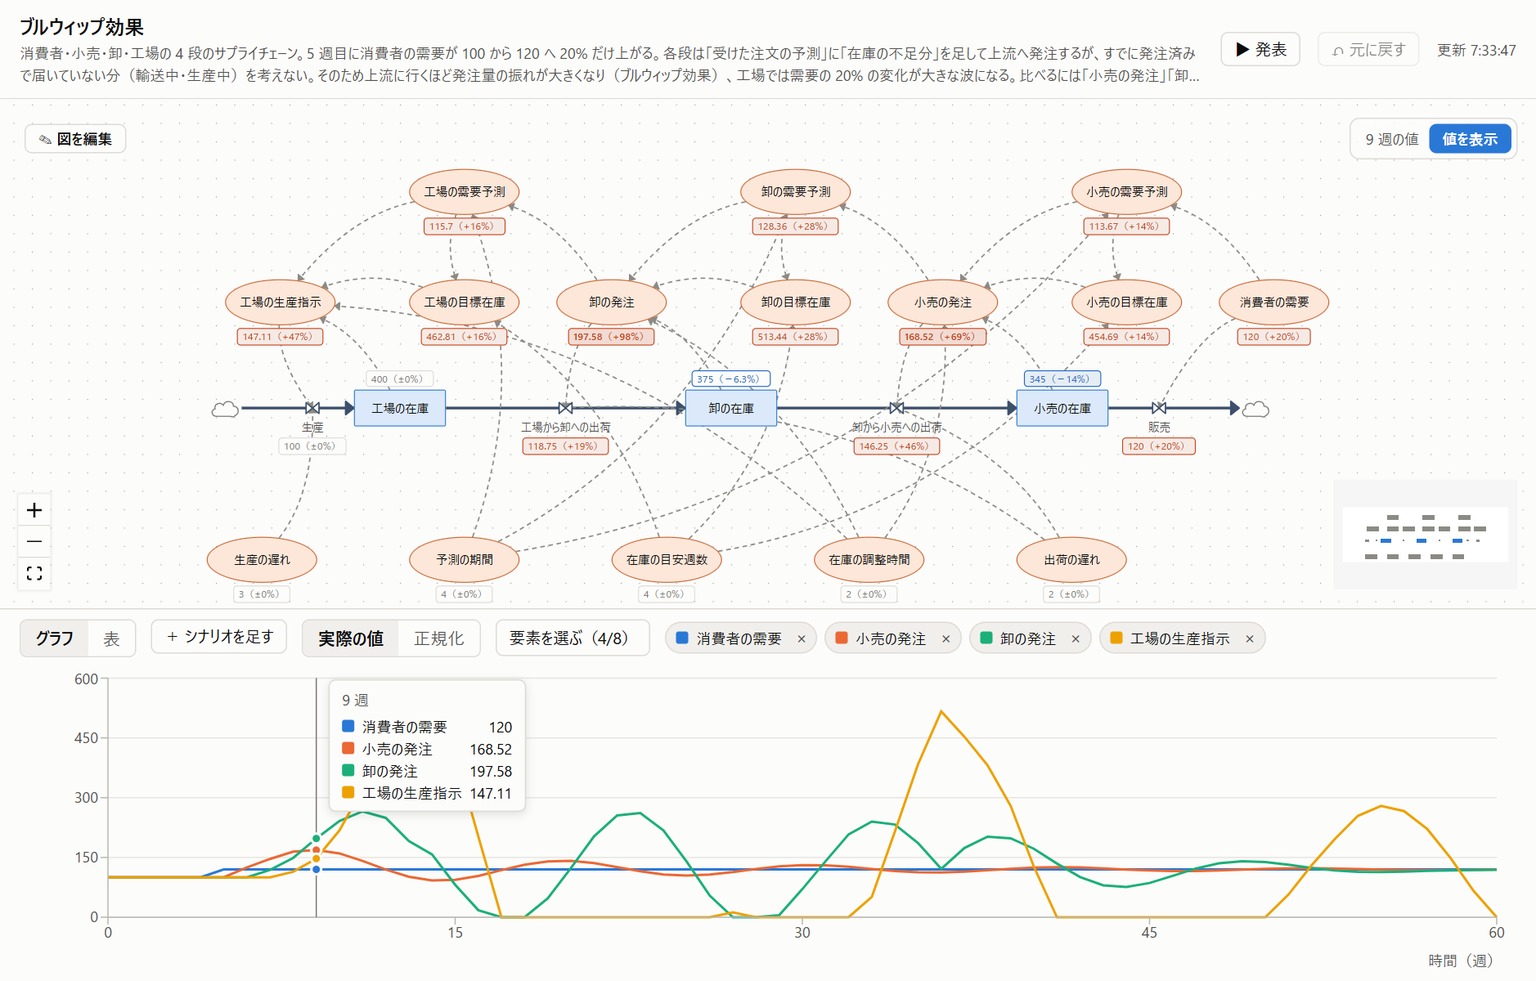
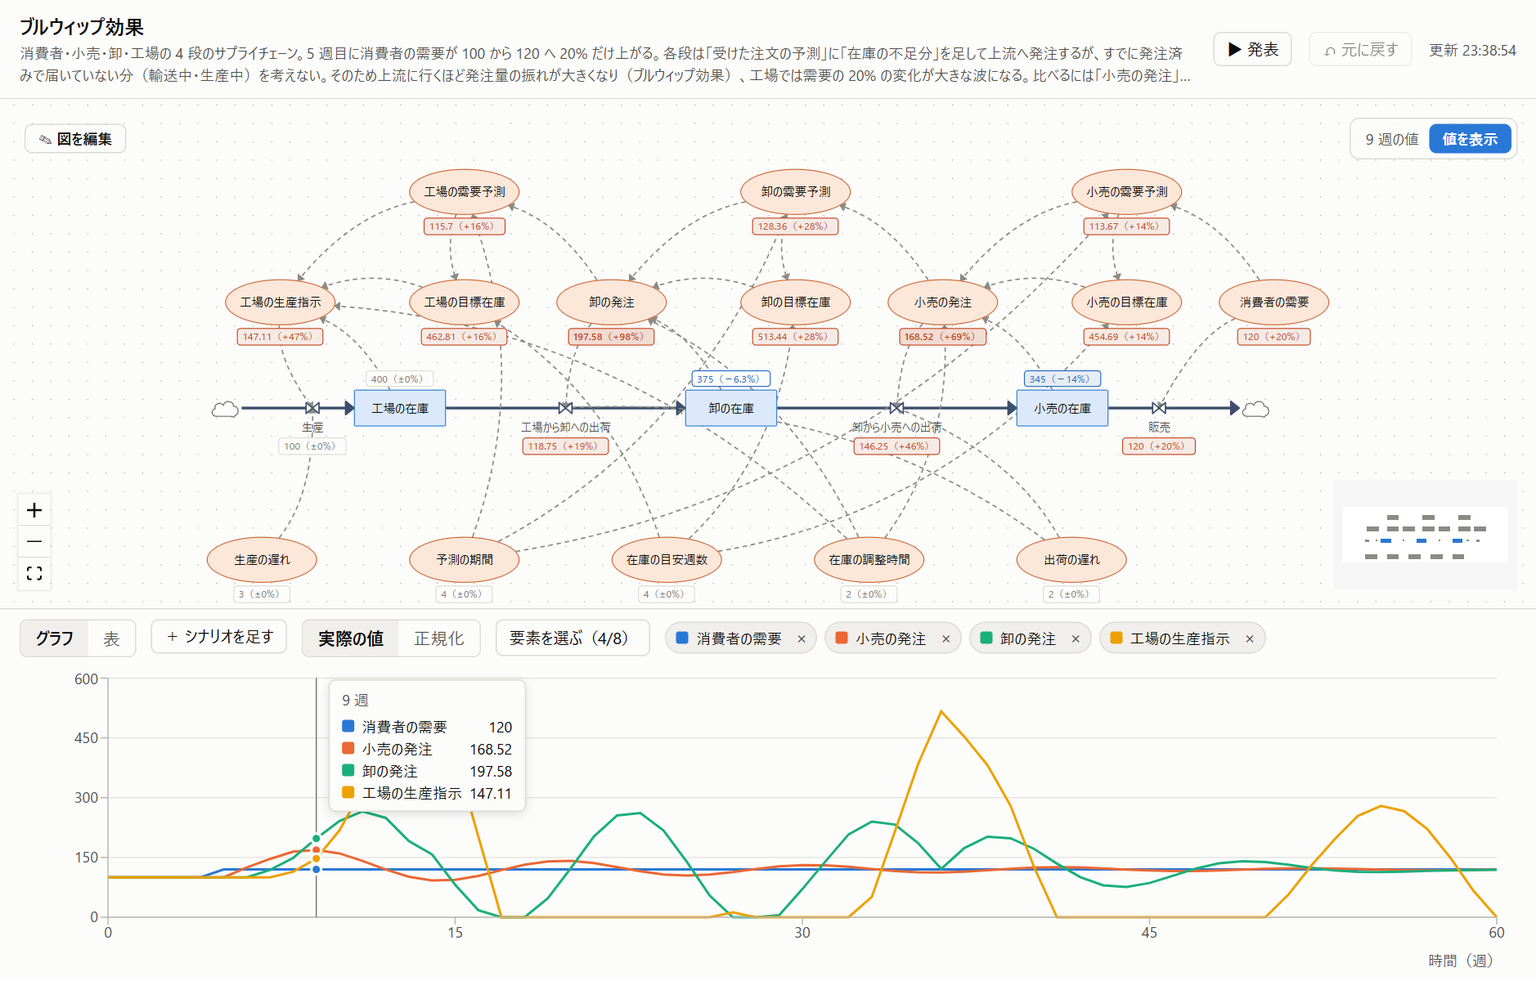
公開の前の手直し：スクリーンショットを新しい名前で撮り直し、文書から旧リポジトリの番号を外す (#3)
- docs/images/viewer/ のスクリーンショットを撮り直した（見出しが「SD Modeler ビューア」のままだった）
- BACKLOG・IDEAS・ROADMAP・VISION から、旧リポジトリの Issue・PR の番号を外した（新しいリポジトリでは別の番号を指すため）
- VISION から Insight Maker の内部エンドポイントの名前と、使わなくなった XML 読み込みの細かい説明を消した
- package.json の description を README の 1 行目にそろえた

Changed region(s): [[0.0, 0.0617, 0.7721, 0.0925], [0.8647, 0.0308, 0.9883, 0.0617], [0.7721, 0.0308, 0.8339, 0.0617]]

diff --git a/docs/BACKLOG.md b/docs/BACKLOG.md
@@ -4,48 +4,46 @@
 
 Issue にしないのは、Issue をまとめて片付けるときに一緒に拾われないようにするため。新しい機能の案は [IDEAS.md](IDEAS.md) に書く。
 
-各項目の「出どころ」は、指摘が出たときの PR。詳しい経緯は PR の本文にある。
-
 （書き始めた日：2026-10-16）
 
 ## 要素の編集
 
-- **要素の名前に `[` や `]` などを入れても通る。** サーバーの `renameElement` と `upsert_elements` に、名前の文字の確かめがないため。`[a]b` のような名前にすると、ほかの式から `[名前]` で参照できなくなる。MCP からは前から起きうるが、詳細欄で名前を変えられるようになって起こりやすくなった。サーバー側で断る。出どころ：#34 のレビュー（#34）
+- **要素の名前に `[` や `]` などを入れても通る。** サーバーの `renameElement` と `upsert_elements` に、名前の文字の確かめがないため。`[a]b` のような名前にすると、ほかの式から `[名前]` で参照できなくなる。MCP からは前から起きうるが、詳細欄で名前を変えられるようになって起こりやすくなった。サーバー側で断る。
 
 ## シナリオ
 
-- **ほかのシナリオが 1 つでも実行できないと、`set_scenarios` 全体が失敗して何も保存されない。** 要素を消してシナリオ A が壊れると、関係のないシナリオ B の説明を直すこともできない。保存はして、比較の結果にシナリオごとのエラーを入れる形（`runScenarios` と同じやり方）のほうが扱いやすい。出どころ：#21
-- **実行できなかったシナリオがあると、ほかのシナリオの色がずれる。** 色を、実行できたシナリオの中での位置で決めているため。モデルの中の並び順で決めれば変わらない。出どころ：#21
-- **名前のないシナリオの仮の名前（scenario N）が、前のシナリオを消すとずれる。** 配列の位置で作っているため。名前のないシナリオは取り込んだモデルでしか起きない。出どころ：#21
-- **シナリオの上限（8）が 3 か所に分かれている。** `src/core/slides.ts` の `MAX_SLIDE_SCENARIOS`、`src/viewer/server.ts` の `MAX_SCENARIOS`、web の `MAX_SERIES`。中核から 1 つの定数で出せば、ずれる心配がなくなる。「元のモデル」の名前も web 側に写しがある。出どころ：#21、#23
-- **ビューアで要素を消したときの黄色の帯が、中核（`removeElements`）の知らせをそのまま並べている。** `FLOW "Births" の to は "Population" を指していたので空（モデルの外）にしました。` や `シナリオ "…" から "…" の値を消しました。` のように、MCP 向けの書き方（英語の種類名）で、作業者には読みにくい。画面では「Births の行き先をモデルの外にしました」「シナリオ「…」から … の値を消しました」のように言い換えるか、要点だけにする。出どころ：#35
+- **ほかのシナリオが 1 つでも実行できないと、`set_scenarios` 全体が失敗して何も保存されない。** 要素を消してシナリオ A が壊れると、関係のないシナリオ B の説明を直すこともできない。保存はして、比較の結果にシナリオごとのエラーを入れる形（`runScenarios` と同じやり方）のほうが扱いやすい。
+- **実行できなかったシナリオがあると、ほかのシナリオの色がずれる。** 色を、実行できたシナリオの中での位置で決めているため。モデルの中の並び順で決めれば変わらない。
+- **名前のないシナリオの仮の名前（scenario N）が、前のシナリオを消すとずれる。** 配列の位置で作っているため。名前のないシナリオは取り込んだモデルでしか起きない。
+- **シナリオの上限（8）が 3 か所に分かれている。** `src/core/slides.ts` の `MAX_SLIDE_SCENARIOS`、`src/viewer/server.ts` の `MAX_SCENARIOS`、web の `MAX_SERIES`。中核から 1 つの定数で出せば、ずれる心配がなくなる。「元のモデル」の名前も web 側に写しがある。
+- **ビューアで要素を消したときの黄色の帯が、中核（`removeElements`）の知らせをそのまま並べている。** `FLOW "Births" の to は "Population" を指していたので空（モデルの外）にしました。` や `シナリオ "…" から "…" の値を消しました。` のように、MCP 向けの書き方（英語の種類名）で、作業者には読みにくい。画面では「Births の行き先をモデルの外にしました」「シナリオ「…」から … の値を消しました」のように言い換えるか、要点だけにする。
 
 ## 実際のデータ（CSV）
 
-- **日本語版 Excel で「CSV（コンマ区切り）」として保存すると Shift_JIS になり、文字化けする。** 日本語の要素名がどの列とも合わない、という警告だけが出る。文字化けの文字（U+FFFD）を見つけたら「UTF-8 で保存してください」と知らせるか、少なくとも VIEWER.md に書く。出どころ：#22
-- **タブ区切りの CSV で、カンマを含む名前に変えると次から読めなくなる。** 区切りの判定が「1 行目にタブがあり、カンマがなければタブ区切り」のため。タブの数がカンマより多ければタブ区切りとするか、カンマを含む名前は `"…"` で囲む。出どころ：#22
-- **データの時刻に合わせて足した行では、ツールチップのモデルの値が「—」になる。** 線は補った値でその時刻を通っているので、ちょうど比べたい点で値が読めない。補った値を出す。出どころ：#22
-- **正規化表示で、モデルの線が一定だとデータの点がすべて 50% に並ぶ。** 合っているように見えてしまう。データ自身の最小・最大も目盛りに入れるか、その要素の点は正規化表示では描かない。出どころ：#22
-- **期間外の時刻のデータがあると、横軸がそこまで広がる。** モデルの開始より前の実績を入れると、線のない区間ができる。望ましい場合もあるので、どちらにするか決めて VIEWER.md に書く。出どころ：#22
-- **データのある要素が、最初はグラフに出ない。** 自分で選ぶまで点が見えない。説明資料という目的からは、最初から出したほうが親切かもしれない。出どころ：#22
-- **`1,5` を桁区切りとして 15 と読む。** 小数点にカンマを使う地域の書き方を取り違える。日本語の環境では起きにくい。出どころ：#22
+- **日本語版 Excel で「CSV（コンマ区切り）」として保存すると Shift_JIS になり、文字化けする。** 日本語の要素名がどの列とも合わない、という警告だけが出る。文字化けの文字（U+FFFD）を見つけたら「UTF-8 で保存してください」と知らせるか、少なくとも VIEWER.md に書く。
+- **タブ区切りの CSV で、カンマを含む名前に変えると次から読めなくなる。** 区切りの判定が「1 行目にタブがあり、カンマがなければタブ区切り」のため。タブの数がカンマより多ければタブ区切りとするか、カンマを含む名前は `"…"` で囲む。
+- **データの時刻に合わせて足した行では、ツールチップのモデルの値が「—」になる。** 線は補った値でその時刻を通っているので、ちょうど比べたい点で値が読めない。補った値を出す。
+- **正規化表示で、モデルの線が一定だとデータの点がすべて 50% に並ぶ。** 合っているように見えてしまう。データ自身の最小・最大も目盛りに入れるか、その要素の点は正規化表示では描かない。
+- **期間外の時刻のデータがあると、横軸がそこまで広がる。** モデルの開始より前の実績を入れると、線のない区間ができる。望ましい場合もあるので、どちらにするか決めて VIEWER.md に書く。
+- **データのある要素が、最初はグラフに出ない。** 自分で選ぶまで点が見えない。説明資料という目的からは、最初から出したほうが親切かもしれない。
+- **`1,5` を桁区切りとして 15 と読む。** 小数点にカンマを使う地域の書き方を取り違える。日本語の環境では起きにくい。
 
 ## 筋書きと発表モード
 
-- **極性が決まっていない原因スライドがあると、編集のたびに同じ警告が `slides_issues` と「問題」欄に出る。** 自動で足すリンクには極性が付かないので、brooks_law のようなモデルではスライドの枚数分の警告が毎回返る。警告は `set_slides` と `view_slides` のときだけにし、編集のあとは食い違い（errors）だけを返す、などを検討する。出どころ：#24
-- **`set_scenarios` の `replace: true` でシナリオの名前を付け直すと、筋書きは追従しない。** `slides_issues` で知らせるので実害は小さい。出どころ：#23
-- **例の population の B ループは、R より見分けにくい。** Population → Deaths のリンクがフローの線に沿って、細いレンズ形になる。Death Rate と Deaths の位置を少しずらす。出どころ：#24
-- **図の R / B の札は px 指定なので、全画面の発表では見出しに比べて小さく見える。** 出どころ：#24
+- **極性が決まっていない原因スライドがあると、編集のたびに同じ警告が `slides_issues` と「問題」欄に出る。** 自動で足すリンクには極性が付かないので、brooks_law のようなモデルではスライドの枚数分の警告が毎回返る。警告は `set_slides` と `view_slides` のときだけにし、編集のあとは食い違い（errors）だけを返す、などを検討する。
+- **`set_scenarios` の `replace: true` でシナリオの名前を付け直すと、筋書きは追従しない。** `slides_issues` で知らせるので実害は小さい。
+- **例の population の B ループは、R より見分けにくい。** Population → Deaths のリンクがフローの線に沿って、細いレンズ形になる。Death Rate と Deaths の位置を少しずらす。
+- **図の R / B の札は px 指定なので、全画面の発表では見出しに比べて小さく見える。**
 
 ## ループ（find_loops）
 
-- **細長い大きな輪（100 要素を超える）では、見つける前に手数の上限で止まる。** 長さを広げながら探し直すため。実際の SD モデルではまずない形。出どころ：#24
-- **強連結成分を探す処理（Tarjan 法）が再帰。** 数千要素がつながった鎖のようなモデルでは、呼び出しが深くなりすぎて止まるおそれがある。出どころ：#24
+- **細長い大きな輪（100 要素を超える）では、見つける前に手数の上限で止まる。** 長さを広げながら探し直すため。実際の SD モデルではまずない形。
+- **強連結成分を探す処理（Tarjan 法）が再帰。** 数千要素がつながった鎖のようなモデルでは、呼び出しが深くなりすぎて止まるおそれがある。
 
 ## 画像と PDF（ヘッドレスのブラウザ）
 
-- **`view_slides` と `export_slides` は、描き終わりを固定の時間（400ms など）で待つ。** 重いモデルの図では足りないかもしれない。出どころ：#23、#25
-- **`DevToolsActivePort` を一度読むと読み直さない。** 書いている途中で読んだ場合などに、まれに「接続できません」で失敗しうる。`/json/list` が失敗したら読み直す。出どころ：#25
-- **ブラウザを閉じるときの `fetch` と WebSocket に時間の上限がない。** ブラウザが固まると `close()` が終わらない。`AbortSignal.timeout` を付ける。出どころ：#25
-- **ブラウザが見つからないとき、空の `im-browser-*` フォルダが残る。** 一時フォルダを作ってからブラウザを探しているため。順を入れ替える。前からある。出どころ：#25
-- **PDF から文字を取り出すと、「人」が「⼈」のような部首の文字になることがある。** Chrome と Yu Gothic の組み合わせの癖。見た目と印刷は正しい。出どころ：#25
+- **`view_slides` と `export_slides` は、描き終わりを固定の時間（400ms など）で待つ。** 重いモデルの図では足りないかもしれない。
+- **`DevToolsActivePort` を一度読むと読み直さない。** 書いている途中で読んだ場合などに、まれに「接続できません」で失敗しうる。`/json/list` が失敗したら読み直す。
+- **ブラウザを閉じるときの `fetch` と WebSocket に時間の上限がない。** ブラウザが固まると `close()` が終わらない。`AbortSignal.timeout` を付ける。
+- **ブラウザが見つからないとき、空の `im-browser-*` フォルダが残る。** 一時フォルダを作ってからブラウザを探しているため。順を入れ替える。前からある。
+- **PDF から文字を取り出すと、「人」が「⼈」のような部首の文字になることがある。** Chrome と Yu Gothic の組み合わせの癖。見た目と印刷は正しい。

diff --git a/docs/ROADMAP.md b/docs/ROADMAP.md
@@ -108,7 +108,7 @@
 - **元に戻すはサーバーで持つ。** 画面から書き込むたびに、書き込む前の中身を覚えておく（モデルごとに 50 回分、メモリの中だけ）。元に戻すときは、ファイルがその書き込みの直後のままの場合だけ戻す。そのあと AI などが変えていたら、戻さずに知らせる。
 - **書き込みの API は、ほかのサイトから呼べないようにする。** Host ヘッダーの確認に加えて、`Origin` がビューア自身であること、独自のヘッダー（`X-IM-Viewer`）と `Content-Type: application/json` があることを求める。独自のヘッダーがあるとブラウザは事前の確認（CORS のプリフライト）をし、ビューアはそれに応えないので、ほかのサイトからは送れない。
 - **E1 値と式の編集：** 選んだ要素の詳しい情報の欄で、式（流量）、初期値、単位、負にしない、説明を直す。数字だけなら数値、それ以外は式として保存する。コンバーターは表（入力と出力の組）も直せる。状態と遷移は段階 1 と同じく編集しない。
-- **要素の中身と図の形で、編集の入口を分ける。** 要素の中身（式、初期値、単位、説明、名前）は、詳細欄の「編集」→「保存」でいつでも直す。図の形を変える操作（配置のドラッグ、要素を足す・消す、線を引く）は、図の左上の「図を編集」（編集モード）をオンにしたときだけできる（#43 で上の帯から図の窓に移した）。値やシナリオは、編集モードに関係なくいつでも直せる。使わない人には道具を出さず、見ているときにうっかり図を崩さないため。編集モードは開くたびにオフから始め、ブラウザに覚えさせない。発表モードと図だけの表示（`?view=diagram`）には出さない。元に戻す操作と、AI の変更が画面に出ることは、モードに関係なく働く。
+- **要素の中身と図の形で、編集の入口を分ける。** 要素の中身（式、初期値、単位、説明、名前）は、詳細欄の「編集」→「保存」でいつでも直す。図の形を変える操作（配置のドラッグ、要素を足す・消す、線を引く）は、図の左上の「図を編集」（編集モード）をオンにしたときだけできる。値やシナリオは、編集モードに関係なくいつでも直せる。使わない人には道具を出さず、見ているときにうっかり図を崩さないため。編集モードは開くたびにオフから始め、ブラウザに覚えさせない。発表モードと図だけの表示（`?view=diagram`）には出さない。元に戻す操作と、AI の変更が画面に出ることは、モードに関係なく働く。
 - **E2 配置の編集：** 編集モードのときに、図の要素と雲をドラッグで動かし、離したときに位置を保存する。弁は両端の真ん中についてくる。座標のない要素を仮に並べているときに動かすと、表示している配置をまとめて保存する（座標のない要素が残らないように）。
 - **E3 名前の変更と図の形の編集：** 名前の変更は詳細欄の「編集」に足す。要素を足す・消す、線（リンク）を引く操作は、編集モードのときだけ図の上に出す道具の場所に並べる。
 
@@ -118,11 +118,11 @@
 - **E1. 値と式の編集（済み）**
 - **E2. 配置の編集（済み）。** 左や上にはみ出したら全体をずらして保存する
 - **E3. 名前の変更と図の形の編集（済み）。** 次の 5 つに分けて作った
-  - 編集モードの切り替え（#33、済み）。オフでは図の要素を動かせない
-  - 詳細欄の「編集」で名前を変える（#34、済み）。式・シナリオ・実際のデータの列名・筋書きの中の名前も書き換え、元に戻すで戻る。選んでいる要素や線、グラフに出している要素は新しい名前のまま続く
-  - 編集モードで要素を足す・消す（#35、済み）。足すときは種類のボタンを押してから図の置きたい場所を押し、仮の名前で置く。消すときはつながるリンクも消し、ストックにつながるフローは残して端を雲にする
-  - 編集モードで線（リンク）を引く（#36、済み）。要素の縁からドラッグして別の要素の上で離すか、[＋線] を押してから元 → 先の順に押す。線を押して選び、「削除」か Delete キーで消す。同じ向きのリンク、自分自身へのリンクは引かずに知らせる。先の要素の式が使っているリンクとコンバーターの入力元からのリンクは消せず、選んだときに左の欄に理由を出して「削除」を押せなくする。フローの端を雲からストックにつなぎ替える操作は、別に作った（下）
-  - 編集モードでフローの端をつなぎ替える（#40、済み）。フローの端の近くのつまみをドラッグし、ストックの上で離すとそのストックに、何もないところで離すとそこに置いた雲につなぐ。元に戻すで戻る
+  - 編集モードの切り替え（済み）。オフでは図の要素を動かせない
+  - 詳細欄の「編集」で名前を変える（済み）。式・シナリオ・実際のデータの列名・筋書きの中の名前も書き換え、元に戻すで戻る。選んでいる要素や線、グラフに出している要素は新しい名前のまま続く
+  - 編集モードで要素を足す・消す（済み）。足すときは種類のボタンを押してから図の置きたい場所を押し、仮の名前で置く。消すときはつながるリンクも消し、ストックにつながるフローは残して端を雲にする
+  - 編集モードで線（リンク）を引く（済み）。要素の縁からドラッグして別の要素の上で離すか、[＋線] を押してから元 → 先の順に押す。線を押して選び、「削除」か Delete キーで消す。同じ向きのリンク、自分自身へのリンクは引かずに知らせる。先の要素の式が使っているリンクとコンバーターの入力元からのリンクは消せず、選んだときに左の欄に理由を出して「削除」を押せなくする。フローの端を雲からストックにつなぎ替える操作は、別に作った（下）
+  - 編集モードでフローの端をつなぎ替える（済み）。フローの端の近くのつまみをドラッグし、ストックの上で離すとそのストックに、何もないところで離すとそこに置いた雲につなぐ。元に戻すで戻る
 
 ### 配置の調整（AI が図を見ながら直す）
 

diff --git a/docs/IDEAS.md b/docs/IDEAS.md
@@ -4,7 +4,7 @@
 
 （書いた日：2026-10-16）
 
-最初の目標（SD を知らない人に問題を定義し、解決案を示す）の分は Issue にした：#15〜#19。ここに残っているのは、その次の段階の案。
+最初の目標（SD を知らない人に問題を定義し、解決案を示す）の分は作った。ここに残っているのは、その次の段階の案。
 
 ## 説明なしでも分かる資料にする
 
@@ -14,7 +14,7 @@
 
 ### 見る人が自分で開いて触れる形で書き出す
 
-最初の目標では、説明資料を PDF で渡す（#19）。その先は、1 つの HTML ファイルなど、見る人が自分で開いてシナリオを切り替えられる形にする。
+最初の目標では、説明資料を PDF で渡す。その先は、1 つの HTML ファイルなど、見る人が自分で開いてシナリオを切り替えられる形にする。
 
 ## うまくいったと言える目安（案）
 
